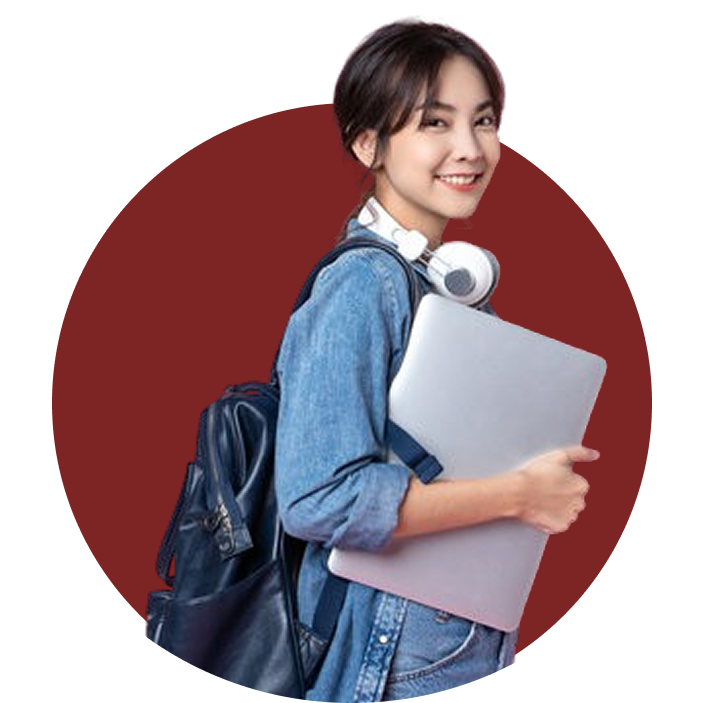
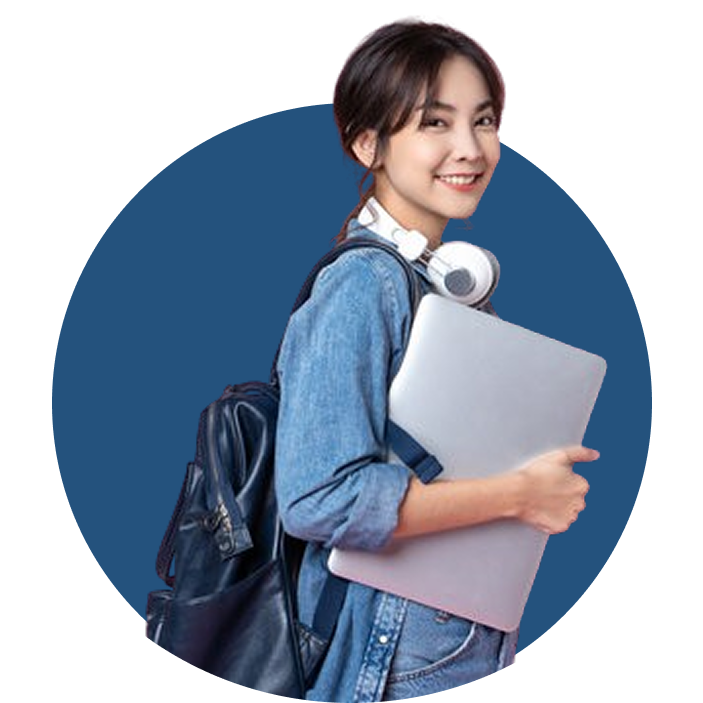
Change UI Color

Changed region(s): [[0.0597, 0.1494, 0.5377, 0.8962], [0.6273, 0.2091, 0.926, 0.926]]

diff --git a/src/app/components/Conditions.tsx b/src/app/components/Conditions.tsx
@@ -12,10 +12,10 @@ const Conditions = () => {
       <div className="grid grid-cols-1 lg:grid-cols-2 gap-8 w-full max-w-7xl mx-auto px-6 py-12 items-center">
         {/* 1. Title */}
         <div className="flex flex-col text-center lg:text-left lg:col-start-2 lg:row-start-1 ">
-          <h2 className="text-3xl lg:text-5xl font-bold text-amber-950">
+          <h2 className="text-3xl lg:text-5xl font-bold text-blue-950">
             AI NÊN THAM GIA
           </h2>
-          <h2 className="text-3xl lg:text-5xl font-bold text-amber-900">
+          <h2 className="text-3xl lg:text-5xl font-bold text-blue-900">
             KHÓA HỌC TIẾNG ANH
           </h2>
         </div>
@@ -37,21 +37,21 @@ const Conditions = () => {
         {/* 3. Details */}
         <ul className="lg:col-start-2 lg:row-start-2 flex flex-col gap-4 text-white text-left">
           <li className="flex items-start gap-3">
-            <CheckCircleOutlinedIcon className="text-amber-950 shrink-0 mt-1" />
+            <CheckCircleOutlinedIcon className="text-blue-950 shrink-0 mt-1" />
             <span>
               Người yêu thích Tiếng Anh: đam mê văn hóa, du lịch. Kết bạn Năm
               Châu - Nối liền Địa Cầu.
             </span>
           </li>
           <li className="flex items-start gap-3">
-            <CheckCircleOutlinedIcon className="text-amber-950 shrink-0 mt-1" />
+            <CheckCircleOutlinedIcon className="text-blue-950 shrink-0 mt-1" />
             <span>
               Học Sinh, Sinh Viên: Lợi thế vượt trội trong tương lai nghề nghiệp,
               cơ hội học bổng du học với một ngôn ngữ toàn cầu.
             </span>
           </li>
           <li className="flex items-start gap-3">
-            <CheckCircleOutlinedIcon className="text-amber-950 shrink-0 mt-1" />
+            <CheckCircleOutlinedIcon className="text-blue-950 shrink-0 mt-1" />
             <span>
               Doanh nhân và Chuyên Gia Kinh Doanh: Tìm kiếm cơ hội kinh doanh và
               mở rộng thị trường, Tiếng Anh giúp kết nối với các đối tác và nhà
@@ -59,7 +59,7 @@ const Conditions = () => {
             </span>
           </li>
           <li className="flex items-start gap-3">
-            <CheckCircleOutlinedIcon className="text-amber-950 shrink-0 mt-1" />
+            <CheckCircleOutlinedIcon className="text-blue-950 shrink-0 mt-1" />
             <span>
               Nhân Viên, Hướng Dẫn Viên Du Lịch: Với hơn 1.4 tỷ người sử dụng
               Tiếng Anh, Tiếng Anh tốt giúp tiếp cận khách du lịch dễ dàng và uy

diff --git a/src/app/components/Footer.tsx b/src/app/components/Footer.tsx
@@ -8,11 +8,11 @@ const Footer = () => {
   const navigate = useNavigate()
 
   return (
-    <div id='footer' className='w-full bg-amber-950 mt-10 py-10 px-10'>
-      <div className='my-5 xl:mx-25 2xl:mx-80 xl:my-0'>
+    <div id='footer' className='w-full bg-sky-950 mt-10 py-10 px-10'>
+      <div className='my-5 xl:mx-25 xl:my-0 2xl:mx-48'>
         <img
           src={icon}
-          className='rounded-full cursor-pointer border-2 border-transparent transition-all duration-200 hover:border-orange-500 hover:shadow-[0_0_15px_rgba(249,115,22,0.7)]'
+          className='rounded-full cursor-pointer border-2 border-transparent transition-all duration-200 hover:border-sky-500 hover:shadow-[0_0_15px_rgba(59,130,246,0.7)]'
           onClick={() => navigate('/')}
           alt='Home'
         />
@@ -25,7 +25,7 @@ const Footer = () => {
           </h1>
           {contacts.map(({ Icon, label, value }) => (
             <div key={label} className='flex text-left items-center'>
-              <Icon className='text-amber-600 my-2 shrink-0' />
+              <Icon className='text-white my-2 shrink-0' />
               <p>
                 {label}: {value}
               </p>

diff --git a/src/app/components/IntroCard.tsx b/src/app/components/IntroCard.tsx
@@ -9,10 +9,10 @@ type IntroCardProps = {
 
 const IntroCard = ({ title, description, icon }: IntroCardProps) => {
   return (
-    <div className="relative flex flex-col justify-start items-center bg-amber-700 rounded-2xl mx-5 lg:mx-28 p-10 mt-20 shadow-2xl">
-      <div className='absolute -top-14 left-1/2 -translate-x-1/2 w-fit rounded-4xl bg-amber-950 p-4  border-white border-4'>{icon}</div>
-      <text className="text-2xl text-amber-950 font-bold mt-4">{title}</text>
-      <text className="text-white">{description}</text>
+    <div className="relative flex flex-col justify-start items-center bg-blue-400 rounded-2xl mx-5 lg:mx-28 p-10 mt-20 shadow-2xl">
+      <div className='absolute -top-14 left-1/2 -translate-x-1/2 w-fit rounded-4xl bg-sky-900 p-4  border-white border-4'>{icon}</div>
+      <text className="text-2xl text-blue-950 font-bold my-4">{title}</text>
+      <text className="text-white text-xl">{description}</text>
     </div>
   )
 }

diff --git a/src/app/components/GoalCard.tsx b/src/app/components/GoalCard.tsx
@@ -2,12 +2,12 @@ import type { GoalCardProps } from "../models/GoalModel"
 
 const GoalCard = ({ index, title, description }: GoalCardProps) => {
   return (
-    <div className='flex flex-col md:flex-row bg-amber-800 rounded-2xl overflow-hidden min-h-40 md:mx-15 shadow-2xl'>
+    <div className='flex flex-col md:flex-row bg-sky-800 rounded-2xl overflow-hidden min-h-40 md:mx-15 shadow-2xl'>
       <h2 className='flex items-center justify-center text-white text-5xl font-bold px-6 py-4 border-b-4 md:border-b-0 md:border-r-4 shrink-0'>
         {index}
       </h2>
       <div className='text-left flex flex-col justify-start py-4 px-4'>
-        <h3 className='text-amber-950 text-2xl font-bold'>{title}</h3>
+        <h3 className='text-white text-2xl font-bold'>{title}</h3>
         <p className='text-white text-lg'>{description}</p>
       </div>
     </div>

diff --git a/src/app/components/Goals.tsx b/src/app/components/Goals.tsx
@@ -6,8 +6,8 @@ const Goals = () => {
 
   return (
     <div id='goals' className='mt-15'>
-      <h1 className=' text-3xl lg:text-5xl font-bold text-amber-950 '>BẠN NHẬN ĐƯỢC GÌ</h1>
-      <h1 className=' text-3xl lg:text-5xl font-bold text-amber-700 '>KHI THAM GIA KHÓA HỌC CỦA CHÚNG TÔI</h1>
+      <h1 className=' text-3xl lg:text-5xl font-bold text-sky-950 '>BẠN NHẬN ĐƯỢC GÌ</h1>
+      <h1 className=' text-3xl lg:text-5xl font-bold text-sky-700 '>KHI THAM GIA KHÓA HỌC CỦA CHÚNG TÔI</h1>
 
       <div className='grid grid-cols-1 xl:grid-cols-2 gap-6 mx-5 mt-10'>
         {columns.map((column, colIdx) => (

diff --git a/src/app/components/Header.tsx b/src/app/components/Header.tsx
@@ -21,7 +21,7 @@ const Header = () => {
       <div className='flex justify-between lg:justify-start w-full p-5'>
         <img
           src={icon}
-          className='rounded-full size-16 cursor-pointer border-2 border-transparent transition-all duration-200 hover:border-orange-500 hover:shadow-[0_0_15px_rgba(249,115,22,0.7)]'
+          className='rounded-full size-16 cursor-pointer border-2 border-transparent transition-all duration-200 hover:border-sky-500 hover:shadow-[0_0_15px_rgba(59,130,246,0.7)]'
           onClick={() => navigate('/')}
           alt='Home'
         />

diff --git a/src/app/components/Intro.tsx b/src/app/components/Intro.tsx
@@ -7,7 +7,7 @@ import { introData } from '../data/introData';
 const Intro = () => {
   return (
     <div id="intro" className='flex flex-col items-center my-10'>
-      <h1 className=' text-3xl lg:text-5xl font-bold text-amber-950 '>CHINH PHỤC TIẾNG ANH</h1>
+      <h1 className=' text-3xl lg:text-5xl font-bold text-sky-800 '>CHINH PHỤC TIẾNG ANH</h1>
       <div className='mt-10'>
         <Badge label='TỪ 0 ĐẾN TINH THÔNG' text='white' fontSize="clamp(1rem, 2vw, 2rem)"/>
       </div>

diff --git a/src/app/components/HeaderButton.tsx b/src/app/components/HeaderButton.tsx
@@ -28,7 +28,7 @@ const HeaderButton = ({ label, to }: HeaderButtonProps) => {
   return (
     <button
       onClick={handleClick}
-      className="px-4 py-2 rounded-lg font-semibold text-amber-950 hover:bg-orange-100 transition-colors"
+      className="px-4 py-2 rounded-lg font-semibold text-blue-950 hover:bg-blue-100 transition-colors"
     >
       {label}
     </button>

diff --git a/src/app/components/Course.tsx b/src/app/components/Course.tsx
@@ -6,7 +6,7 @@ const Course = () => {
   return (
     <div
       id='courses'
-      className='flex flex-col items-center w-full bg-amber-700 py-10 mt-10'
+      className='flex flex-col items-center w-full bg-sky-600 py-10 mt-10'
     >
       <h1 className='text-5xl font-bold text-white text-center px-4'>
         LỘ TRÌNH HỌC TỐI ƯU HÓA

diff --git a/src/app/components/CustomTitle.tsx b/src/app/components/CustomTitle.tsx
@@ -12,7 +12,7 @@ type CustomTitleProps = {
 
 const CustomTitle = ({ label, textSize, stroke = 'md' }: CustomTitleProps) => (
   <span
-    className={`text-amber-950 ${textSize} font-bold italic ${strokeMap[stroke]}`}
+    className={`text-blue-950 ${textSize} font-bold italic ${strokeMap[stroke]}`}
   >
     {label}
   </span>

diff --git a/src/app/components/CustomBadge.tsx b/src/app/components/CustomBadge.tsx
@@ -10,8 +10,8 @@ type BadgeProps = {
 
 const Badge = ({
   label,
-  bg = '#451a03',
-  text = '#f97316',
+  bg = '#1A4966',
+  text = '#FFFFFF',
   fontSize = '1rem',
   className,
 }: BadgeProps) => {
